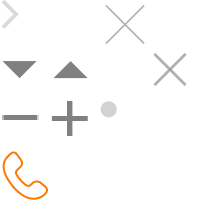
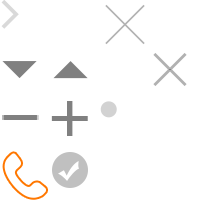
1

Changed region(s): [[0.24, 0.75, 0.45, 0.96]]

diff --git a/wxb/html/3-orders.html b/wxb/html/3-orders.html
@@ -15,7 +15,8 @@
 <div class="orders">
     <div class="tabs orderFilter">
         <div class="wrap tabWrap cfx">
-            <div class="tab tab_on"><a href="javascript:">未发货</a></div><!-- @后端： 增加类名 tab_on 为选中状态 -->
+            <div class="tab tab_on"><a href="javascript:">已付款<div class="reminder">9</div></a></div><!-- @后端： 增加类名 tab_on 为选中状态 -->
+            <div class="tab"><a href="javascript:">未付款</a></div>
             <div class="tab"><a href="javascript:">已发货</a></div>
             <div class="tab"><a href="javascript:">已取消</a></div>
         </div>
@@ -28,7 +29,8 @@
     </div>
     
     <div class="orderList">
-        <div class="orderDate">2014/02/13（今天）</div>
+        <div class="orderStatus"><i class="i iG iG_D2"></i>已付款</div>
+        <div class="orderDate">2014-02-13 购买</div>
 <div class="order">
     <div class="cnt">
         <a href="#3"  class="main">
@@ -43,50 +45,15 @@
         </a>
         <div class="ft cfx">
             <div class="des oId">订单编号：<b>12345678</b></div>
-            <div class="des opt_push"><a href="javascript:">发货</a></div>
-        </div>
-    </div>
-</div>
-<div class="order">
-    <div class="cnt">
-        <a href="#3"  class="main">
-            <div class="pic pic_cover"><div class="img"><img src="../image/d/1.jpg" alt=""></div></div>
-            <div class="name"><h4>丛老湿</h4></div>
-            <div class="infs">
-                <div class="inf phone"><b>12361235123</b></div>
-                <div class="inf address"><b>丛老湿丛老湿丛老湿 丛老湿丛老湿</b></div>
-            </div>
-            <div class="price">总价：<b>￥120</b></div>
-            <div class="toDetail"><i class="i iG iG_A1"></i></div>
-        </a>
-        <div class="ft cfx">
-            <div class="des oId">订单编号：<b>12345678</b></div>
-            <div class="des opt_push"><a href="javascript:">发货</a></div>
-        </div>
-    </div>
-</div>
-<div class="order">
-    <div class="cnt">
-        <a href="#3"  class="main">
-            <div class="pic pic_cover"><div class="img"><img src="../image/d/1.jpg" alt=""></div></div>
-            <div class="name"><h4>丛老湿</h4></div>
-            <div class="infs">
-                <div class="inf phone"><b>12361235123</b></div>
-                <div class="inf address"><b>丛老湿丛老湿丛老湿 丛老湿丛老湿</b></div>
-            </div>
-            <div class="price">总价：<b>￥120</b></div>
-            <div class="toDetail"><i class="i iG iG_A1"></i></div>
-        </a>
-        <div class="ft cfx">
-            <div class="des oId">订单编号：<b>12345678</b></div>
-            <div class="des opt_push"><a href="javascript:">发货</a></div>
+            <!--<div class="des opt_push"><a href="javascript:">发货</a></div>-->
         </div>
     </div>
 </div>
     </div>
     
     <div class="orderList">
-        <div class="orderDate">2014/02/12（昨天）</div>
+        <div class="orderStatus">未付款</div>
+        <div class="orderDate">2014-02-12 购买</div>
 <div class="order">
     <div class="cnt">
         <a href="#3"  class="main">
@@ -101,43 +68,7 @@
         </a>
         <div class="ft cfx">
             <div class="des oId">订单编号：<b>12345678</b></div>
-            <div class="des opt_push"><a href="javascript:">发货</a></div>
-        </div>
-    </div>
-</div>
-<div class="order">
-    <div class="cnt">
-        <a href="#3"  class="main">
-            <div class="pic pic_cover"><div class="img"><img src="../image/d/1.jpg" alt=""></div></div>
-            <div class="name"><h4>丛老湿</h4></div>
-            <div class="infs">
-                <div class="inf phone"><b>12361235123</b></div>
-                <div class="inf address"><b>丛老湿丛老湿丛老湿 丛老湿丛老湿</b></div>
-            </div>
-            <div class="price">总价：<b>￥120</b></div>
-            <div class="toDetail"><i class="i iG iG_A1"></i></div>
-        </a>
-        <div class="ft cfx">
-            <div class="des oId">订单编号：<b>12345678</b></div>
-            <div class="des opt_push"><a href="javascript:">发货</a></div>
-        </div>
-    </div>
-</div>
-<div class="order">
-    <div class="cnt">
-        <a href="#3"  class="main">
-            <div class="pic pic_cover"><div class="img"><img src="../image/d/1.jpg" alt=""></div></div>
-            <div class="name"><h4>丛老湿</h4></div>
-            <div class="infs">
-                <div class="inf phone"><b>12361235123</b></div>
-                <div class="inf address"><b>丛老湿丛老湿丛老湿 丛老湿丛老湿</b></div>
-            </div>
-            <div class="price">总价：<b>￥120</b></div>
-            <div class="toDetail"><i class="i iG iG_A1"></i></div>
-        </a>
-        <div class="ft cfx">
-            <div class="des oId">订单编号：<b>12345678</b></div>
-            <div class="des opt_push"><a href="javascript:">发货</a></div>
+            <!--<div class="des opt_push"><a href="javascript:">发货</a></div>-->
         </div>
     </div>
 </div>
@@ -148,7 +79,7 @@
 <div class="siteNavs">
     <div class="wrap siteNavWrap">
         <div class="siteNav on"><a href="#3" class="btn"><i class="i iN iN_A1"></i><b>商品</b></a></div><!-- @后端：当前页面增加类名on -->
-        <div class="siteNav"><a href="#3" class="btn"><i class="i iN iN_A2"></i><b>订单</b></a></div>
+        <div class="siteNav"><a href="#3" class="btn"><i class="i iN iN_A2"></i><b>订单</b><div class="reminder">9</div></a></div>
         <div class="siteNav"><a href="#3" class="btn"><i class="i iN iN_A3"></i><b>商家</b></a></div>
         <div class="siteNav"><a href="#3" class="btn"><i class="i iN iN_A4"></i><b>客户</b></a></div>
         <div class="siteNav"><a href="#3" class="btn"><i class="i iN iN_A5"></i><b>更多</b></a></div>

diff --git a/wxb/css/g.css b/wxb/css/g.css
@@ -25,6 +25,11 @@ body{background:#F3F3F3;color:#585858;min-height:100%;min-width:320px;margin:aut
 .btn,
 .box{-webkit-box-shadow:1px 1px 1px rgba(0,0,0,.07);-moz-box-shadow:1px 1px 1px rgba(0,0,0,.07);box-shadow:1px 1px 1px rgba(0,0,0,.07);}
 
+
+/* reminder */
+.reminder{min-width:8px;padding:0 2px;height:12px;border-radius:999px;background:#EC0000;font-size:9px;line-height:12px;text-align:center;color:#FFF;}
+
+
 /* ico   iG_A1代表global图片中的A行1列图标 */
 .i{width:16px;height:16px;display:inline-block;vertical-align:-3px;background:#CCC;}
 .i1{background:url("../image/prodAdd.png") no-repeat;-webkit-background-size:100% auto;background-size:100% auto;width:44px;height:44px;}
@@ -36,6 +41,7 @@ body{background:#F3F3F3;color:#585858;min-height:100%;min-width:320px;margin:aut
 .iG_C1{background-position:0 -50px;width:20px;height:20px;}
 .iG_C2{background-position:-25px -50px;width:20px;height:20px;}
 .iG_C3{background-position:-50px -50px;width:10px;height:10px;}
+.iG_D2{background-position:-25px -75px;width:20px;height:20px;}
 
 .iN{background:url("../image/iNav.png") no-repeat;-webkit-background-size:125px auto;background-size:125px auto;width:25px;height:25px;}
 .iN_A1{background-position:0 0;width:28px;}
@@ -116,7 +122,7 @@ body{background:#F3F3F3;color:#585858;min-height:100%;min-width:320px;margin:aut
 .siteNav .btn{display:block;padding:4px 0 3px;font-size:12px;color:#000;text-align:center;position:relative;}
 .siteNav .btn b{display:block;line-height:18px;}
 .siteNavs .on{background:#DCDCDC;}
-.siteNavs .reminder{position:absolute;width:12px;height:12px;border-radius:999px;background:#B00;top:3px;left:50%;margin-left:10px;font-size:9px;line-height:12px;text-align:center;color:#FFF;}
+.siteNavs .reminder{position:absolute;top:3px;left:50%;margin-left:10px;}
 
 /* sell */
 .sell .main{display:block;padding:10px;background:#FFFFFF;padding-left:150px;position:relative;min-height:120px;font-size:12px;color:#888888;}
@@ -143,6 +149,7 @@ body{background:#F3F3F3;color:#585858;min-height:100%;min-width:320px;margin:aut
 .order .inf{line-height:1.5;}
 .order .address{padding-right:20px;min-height:54px;}
 .order .name,.order .price{color:#585858;font-size:15px;}
+.order .price b{color:#FF6600;}
 .order .name{line-height:1.1;}
 .order .toDetail{position:absolute;right:10px;top:50%;margin-top:-10px;}
 .order .opts{position:relative;}
@@ -282,25 +289,30 @@ body.guide_show > .prodAdd{display:none;}
 /* ---------- 3 orders ------------- */
 .orderFilter{margin:10px;}
 .orderFilter .wrap{display:-webkit-box;display:-webkit-flex;display:-ms-flexbox;display:-ms-flex;display:flex;}
-.orderFilter .tab{-webkit-box-flex:1;-webkit-flex:1 1 0;-ms-flex:1 1 0;flex:1 1 0;}
+.orderFilter .tab{-webkit-box-flex:1;-webkit-flex:1 1 0;-ms-flex:1 1 0;flex:1 1 0;position:relative;}
 .orderFilter .tab a{display:block;border-left:1px solid #E2E2E2;background:#FFF;font-size:15px;color:#585858;text-align:center;line-height:38px;}
 .orderFilter .tab:first-child a{border-left:0;}
 .orderFilter .tab_on a{background:#A9A9A9;color:#FFF;}
+.orderFilter .tab .reminder{position:absolute;top:3px;right:0;margin-right:10px;}
+
 
 
 .orderList .order{margin:10px;}
-.orderList .orderDate{font-size:15px;color:#585858;padding:10px;}
+.orderList .orderStatus{font-size:15px;color:#585858;padding:10px 10px 0;float:right;}
+.orderList .orderStatus .i{margin-right:3px;margin-bottom:-2px;}
+.orderList .orderDate{font-size:15px;color:#585858;padding:10px 10px 0;}
 
 /* ---------- 3 order detail ------------- */
 .orderDetail{padding:10px;}
-.orderDetail .total{position:relative;}
-.orderDetail .total .cnt{position:absolute;top:0;right:5px;z-index:1;font-size:18px;color:#585858;text-align:right;line-height:29px;}
 
 .oBasicInf{}
-.oBasicInf .frm{position:relative;padding:5px;}
+.oBasicInf .frms{padding:5px 0;}
+.oBasicInf .frm{position:relative;padding:5px;clear:both;}
 .oBasicInf .frm .des{position:absolute;top:6px;left:10px;font-size:15px;}
 .oBasicInf .frm .data{margin-left:4.5em;font-size:15px;line-height:1.2;}
-.oBasicInf .oId{border-bottom:1px solid #EAEAEA;}
+.oBasicInf .oId{border-bottom:1px solid #EAEAEA;margin-bottom:5px;}
+.oBasicInf .totalPrice,.oBasicInf .orderStatus{clear:none;float:left;width:50%;box-sizing:border-box;}
+.oBasicInf .totalPrice .price{font-size:18px;}
 
 .oDetail .main{display:block;padding:10px;background:#FFFFFF;padding-left:150px;position:relative;min-height:120px;font-size:12px;color:#888888;}
 .oDetail .pic{position:absolute;left:0;top:0;width:140px;height:140px;}
@@ -317,7 +329,10 @@ body.guide_show > .prodAdd{display:none;}
 .ownerSetting{padding:10px;}
 .ownerSetting .app{margin-bottom:10px;}
 .ownerSetting .app .hd{padding:5px;font-size:18px;line-height:1.4;}
+.ownerSetting .app .bd .tip{padding:5px;font-size:14px;line-height:1.4;color:#585858;}
 .ownerSetting .opt{margin-top:30px;}
+
+
 
 .ownerPicAdd{min-height:120px;}
 .ownerPicAdd .des{position:absolute;z-index:1;left:0;right:0;top:50%;height:20px;margin-top:-10px;text-align:center;font-size:16px;}

diff --git a/wxb/html/3-order-detail.html b/wxb/html/3-order-detail.html
@@ -13,15 +13,17 @@
 <body>
 
 <div class="orderDetail">
-    <div class="total"><div class="cnt">合计：￥680</div></div>
 
     <div class="ap apInfs">
         <div class="cnt oBasicInf">
             <div class="frms">
                 <div class="frm oId"><div class="des">订单号：</div><div class="data">12345678</div></div>
+                <div class="frm totalPrice"><div class="des">合　计：</div><div class="data"><div class="price">￥680</div></div></div>
+                <div class="frm orderStatus"><div class="des">状　态：</div><div class="data">已付款</div></div>
                 <div class="frm reveiver"><div class="des">收件人：</div><div class="data">丛老湿</div></div>
                 <div class="frm phone"><div class="des">电　话：</div><div class="data">12345678901</div></div>
                 <div class="frm address"><div class="des">地　址：</div><div class="data">丛老湿 丛老湿 丛老湿 丛老湿 丛老湿 丛老湿</div></div>
+                <div class="frm weixin"><div class="des">微信号：</div><div class="data">dongpixiu</div></div>
             </div>
         </div>
     </div>
@@ -69,10 +71,11 @@
     <div class="pageOpts fixed">
         <div class="wrap optWrap">
             <div class="opt goBack"><a href="javascript:;" class="btn btnD"><b>返回</b></a></div>
-            <div class="opt toCancel"><a href="javascript:;" class="btn btnD"><b>取消订单</b></a></div>
+            <div class="opt toCancel"><a href="javascript:;" class="btn btnD"><b>取消订单</b></a></div><!-- 另一种状态，删掉就可以了 -->
             <div class="opt toFinish"><a href="#3" class="btn btnA"><b>确认发货</b></a></div>
         </div>
     </div>
+
 
 </div>
 

diff --git a/wxb/html/4-setting.html b/wxb/html/4-setting.html
@@ -57,6 +57,11 @@
         </div>
     </div>
 
+    <div class="app appAlipay">
+        <div class="hd">支付宝账号</div>
+        <div class="bd"><div class="ownerPhone"><div class="txt"><input type="text"></div></div><div class="tip">在线支付功用，需要填写支付宝账号</div></div>
+    </div>
+
     <div class="opt"><input type="submit" class="btn btnA" value="保 存"></div>
 
 </div>
@@ -64,7 +69,7 @@
 <div class="siteNavs">
     <div class="wrap siteNavWrap">
         <div class="siteNav on"><a href="#3" class="btn"><i class="i iN iN_A1"></i><b>商品</b></a></div><!-- @后端：当前页面增加类名on -->
-        <div class="siteNav"><a href="#3" class="btn"><i class="i iN iN_A2"></i><b>订单</b></a></div>
+        <div class="siteNav"><a href="#3" class="btn"><i class="i iN iN_A2"></i><b>订单</b><div class="reminder">9</div></a></div>
         <div class="siteNav"><a href="#3" class="btn"><i class="i iN iN_A3"></i><b>商家</b></a></div>
         <div class="siteNav"><a href="#3" class="btn"><i class="i iN iN_A4"></i><b>客户</b></a></div>
         <div class="siteNav"><a href="#3" class="btn"><i class="i iN iN_A5"></i><b>更多</b></a></div>

diff --git a/wxb/html/1-products.html b/wxb/html/1-products.html
@@ -116,7 +116,7 @@
 <div class="siteNavs">
     <div class="wrap siteNavWrap">
         <div class="siteNav on"><a href="#3" class="btn"><i class="i iN iN_A1"></i><b>商品</b></a></div><!-- @后端：当前页面增加类名on -->
-        <div class="siteNav"><a href="#3" class="btn"><i class="i iN iN_A2"></i><b>订单</b></a></div>
+        <div class="siteNav"><a href="#3" class="btn"><i class="i iN iN_A2"></i><b>订单</b><div class="reminder">9</div></a></div>
         <div class="siteNav"><a href="#3" class="btn"><i class="i iN iN_A3"></i><b>商家</b></a></div>
         <div class="siteNav"><a href="#3" class="btn"><i class="i iN iN_A4"></i><b>客户</b></a></div>
         <div class="siteNav"><a href="#3" class="btn"><i class="i iN iN_A5"></i><b>更多</b></a></div>

diff --git a/wxb/html/21-client.html b/wxb/html/21-client.html
@@ -46,7 +46,7 @@
 <div class="siteNavs">
     <div class="wrap siteNavWrap">
         <div class="siteNav on"><a href="#3" class="btn"><i class="i iN iN_A1"></i><b>商品</b></a></div><!-- @后端：当前页面增加类名on -->
-        <div class="siteNav"><a href="#3" class="btn"><i class="i iN iN_A2"></i><b>订单</b></a></div>
+        <div class="siteNav"><a href="#3" class="btn"><i class="i iN iN_A2"></i><b>订单</b><div class="reminder">9</div></a></div>
         <div class="siteNav"><a href="#3" class="btn"><i class="i iN iN_A3"></i><b>商家</b></a></div>
         <div class="siteNav"><a href="#3" class="btn"><i class="i iN iN_A4"></i><b>客户</b></a></div>
         <div class="siteNav"><a href="#3" class="btn"><i class="i iN iN_A5"></i><b>更多</b></a></div>
